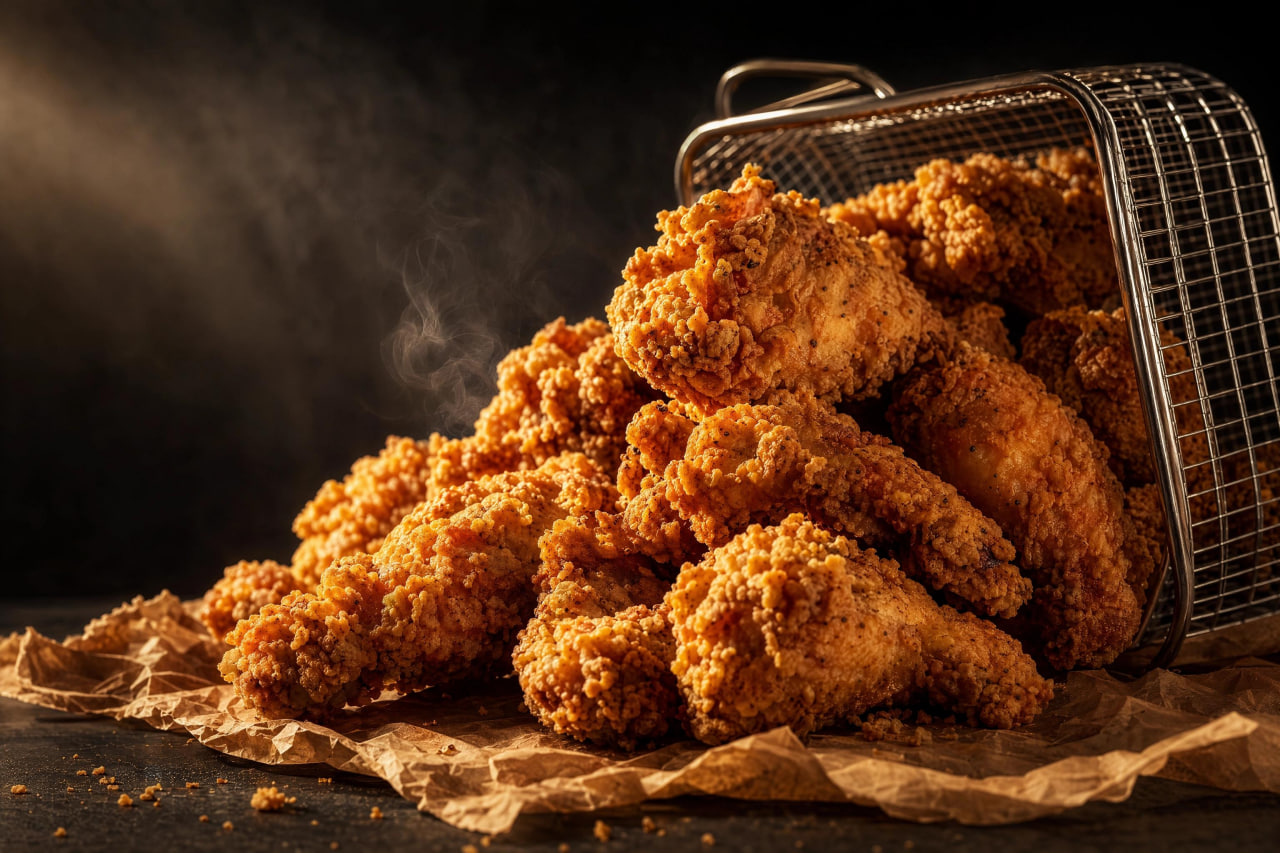
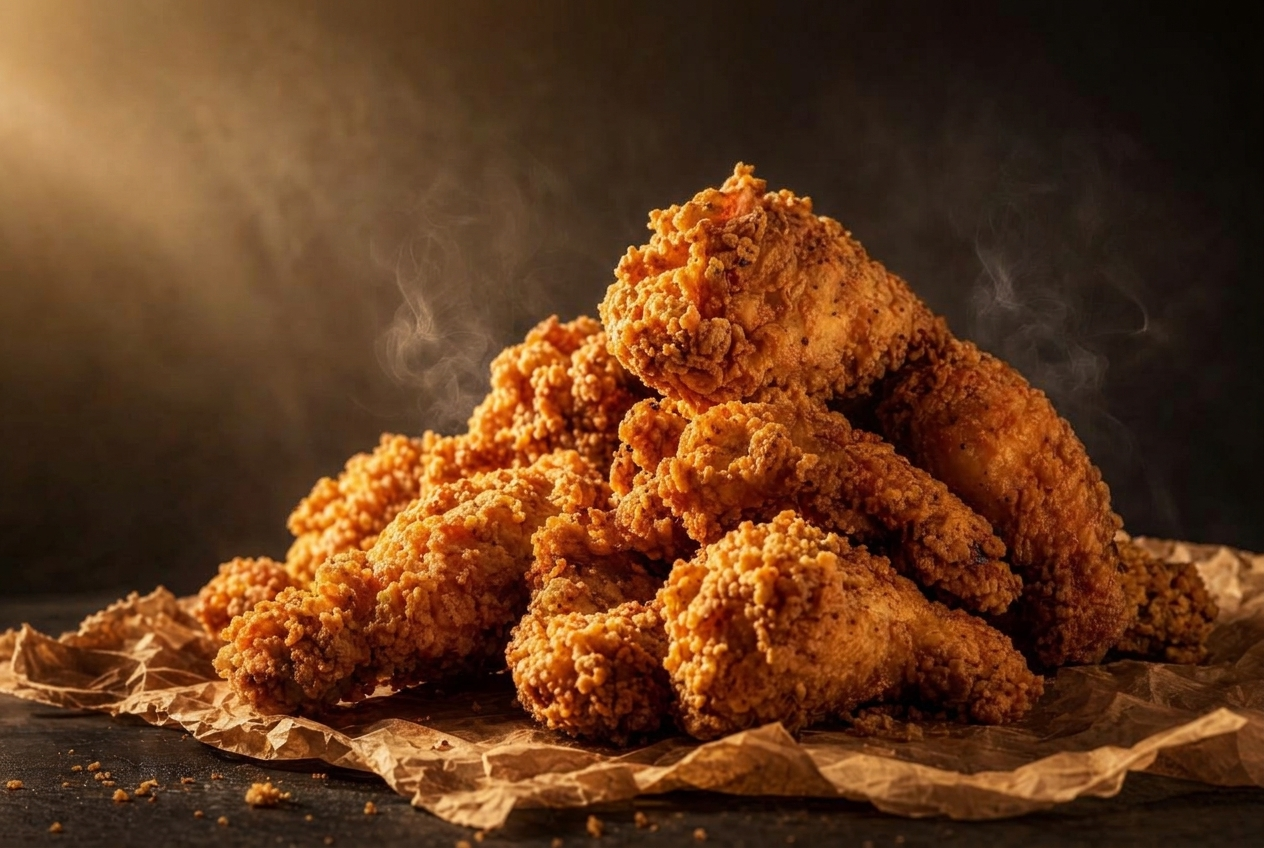
fix: remove wire basket from chicken image and balance menu grid to 8 symmetrical items

diff --git a/src/lib/products-data.ts b/src/lib/products-data.ts
@@ -124,19 +124,4 @@ export const INITIAL_PRODUCTS: ProductItem[] = [
     calories: "220 kkal",
     rating: 4.89,
   },
-  {
-    id: "prod-pepsi-15l",
-    slug: "pepsi-oila-butilka-15l",
-    name: "Pepsi (1.5L Oila Butilkasi)",
-    description: "Katta oilaviy dasturxonlar, ehson va do'stlar davrasi uchun 1.5 litrli tejamkor katta Pepsi.",
-    pricePerKg: 16000,
-    unit: "dona",
-    category: "drinks",
-    isSpicy: false,
-    imageUrl: "/images/drinks/pepsi-classic.jpg",
-    badge: "Katta Oila Uchun",
-    portionTime: "Salqin",
-    calories: "630 kkal",
-    rating: 4.97,
-  },
 ];

diff --git a/src/components/MenuSection.tsx b/src/components/MenuSection.tsx
@@ -18,7 +18,6 @@ export function MenuSection() {
     "prod-fanta-can": 1,
     "prod-pepsi-bottle": 1,
     "prod-fanta-bottle": 1,
-    "prod-pepsi-15l": 1,
   });
   const [addedAnimation, setAddedAnimation] = useState<Record<string, boolean>>({});
 
